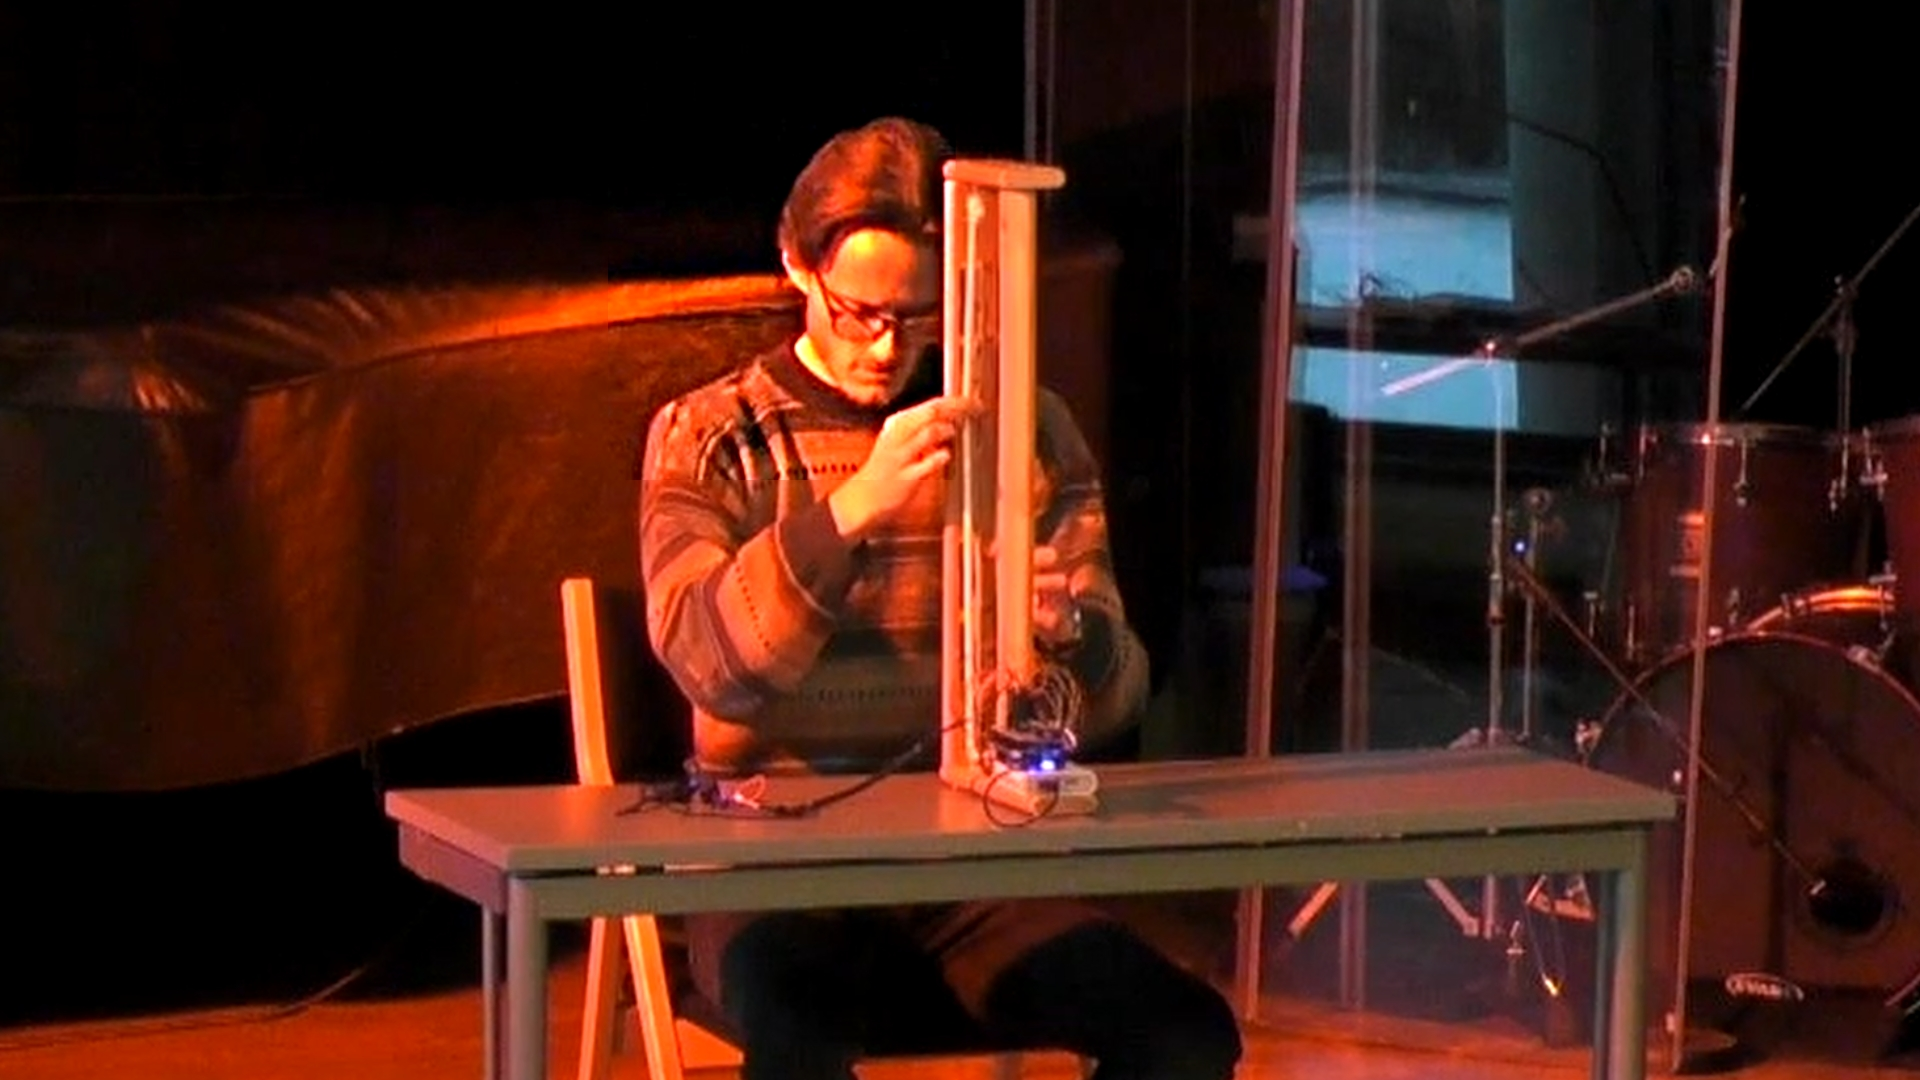
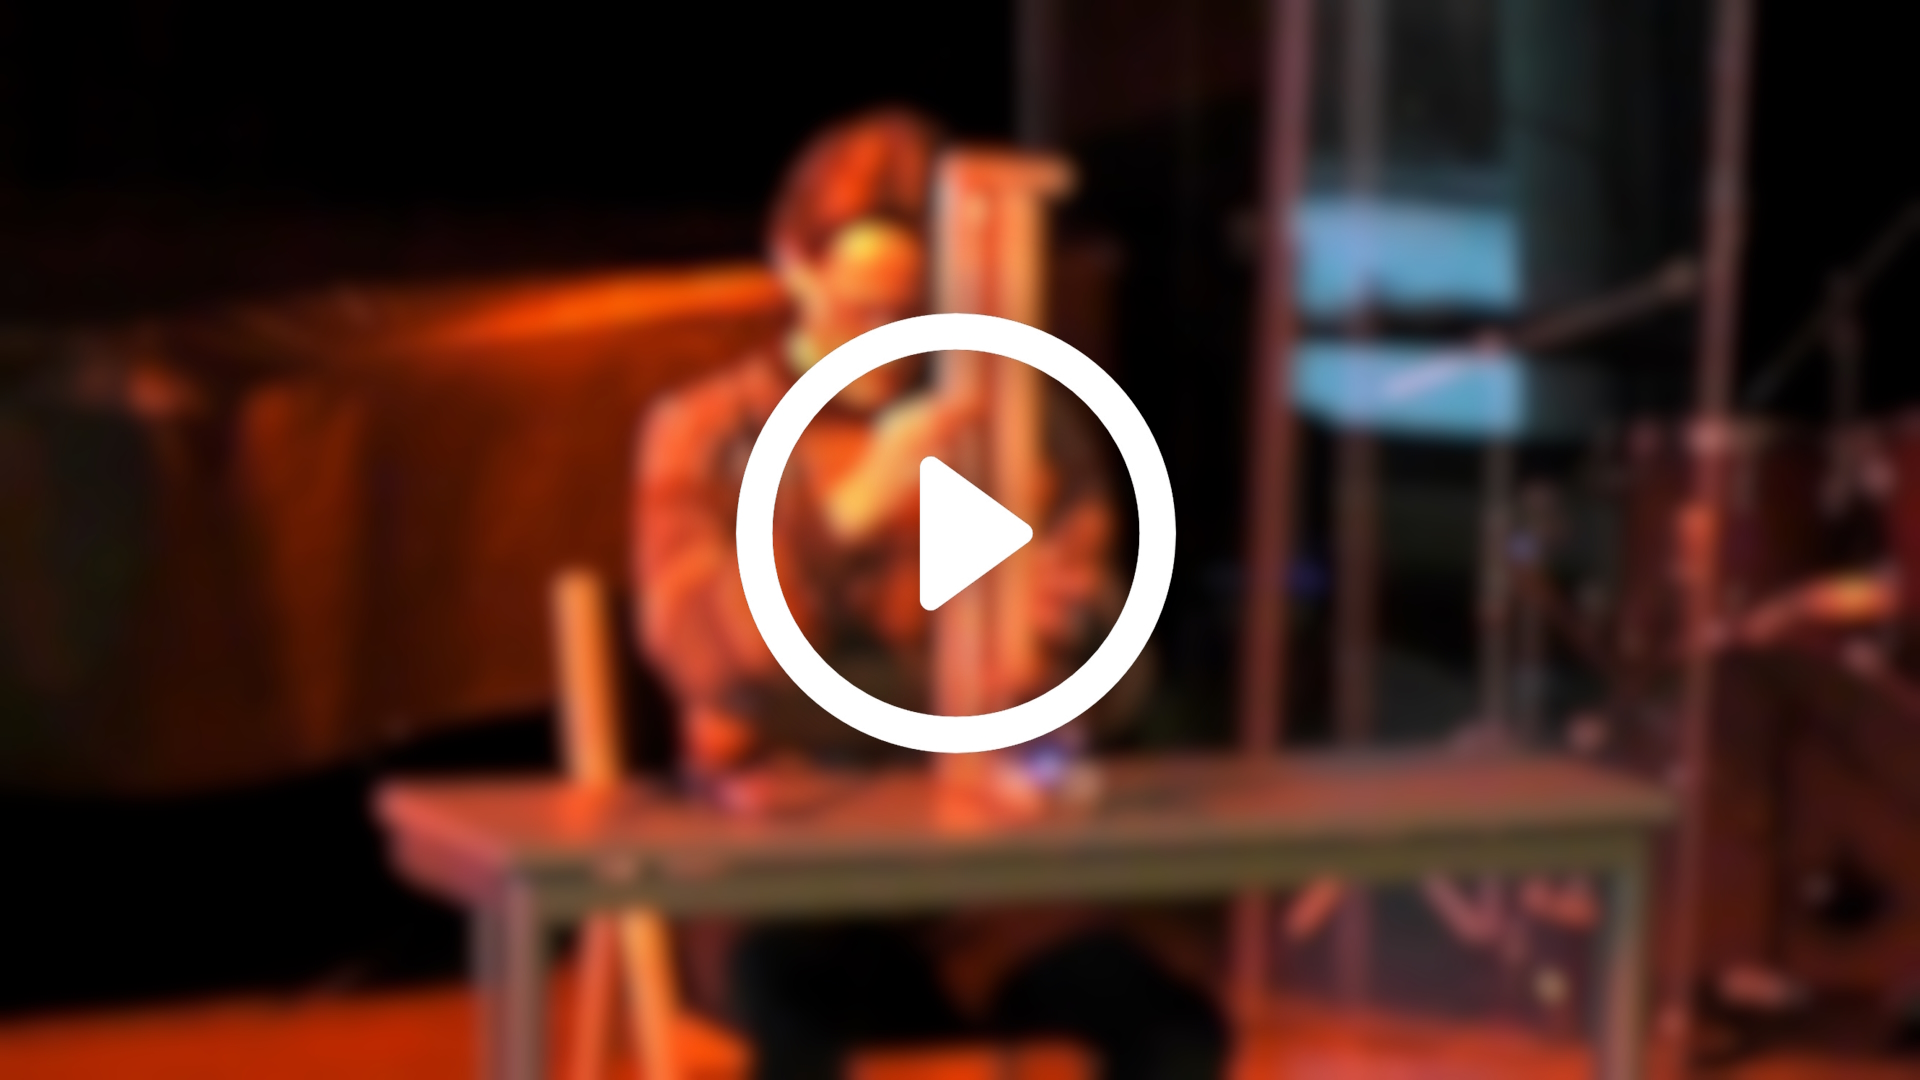
Update README, update thumbnail image

diff --git a/README.md b/README.md
@@ -8,13 +8,11 @@ CordChord is an two-voice digital string instrument.
 
 Watch a video demo and performance below:
 
-[![CordChord video thumbnail](/assets/cordchord_video_thumbnail.jpg)](https://youtu.be/kdyKK7qH69U)
+[![CordChord video thumbnail](/assets/cordchord_video_thumnail.jpg)](https://youtu.be/kdyKK7qH69U)
 
 The instrument is built using the [Bela platform](https://bela.io/).
 
-Read more about how it works here on the MCT blog [here](https://mct-master.github.io/interactive-music/2023/12/01/jackeh-cordchord.html).
-
-Watch a performance on YouTube [here](https://youtu.be/ySrjSWU_Mf8?si=Gh7HjJKVy4U6tpU1&t=1053).
+Read more about how it works here [here](https://mct-master.github.io/interactive-music/2023/12/01/jackeh-cordchord.html).
 
 ## In this Repo
 
